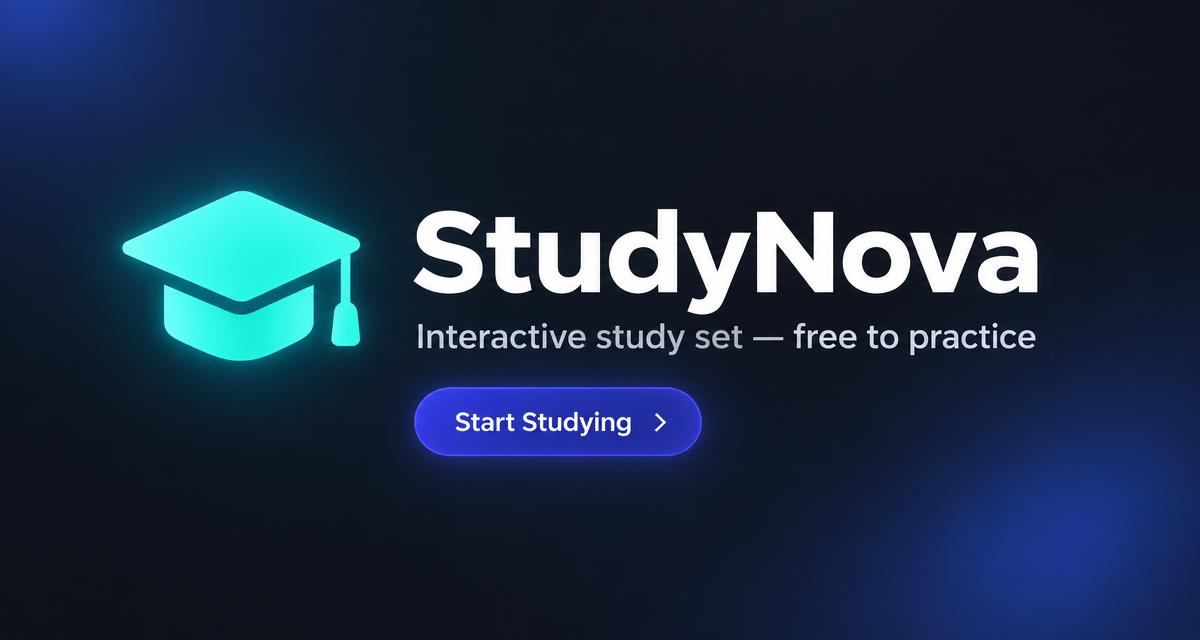
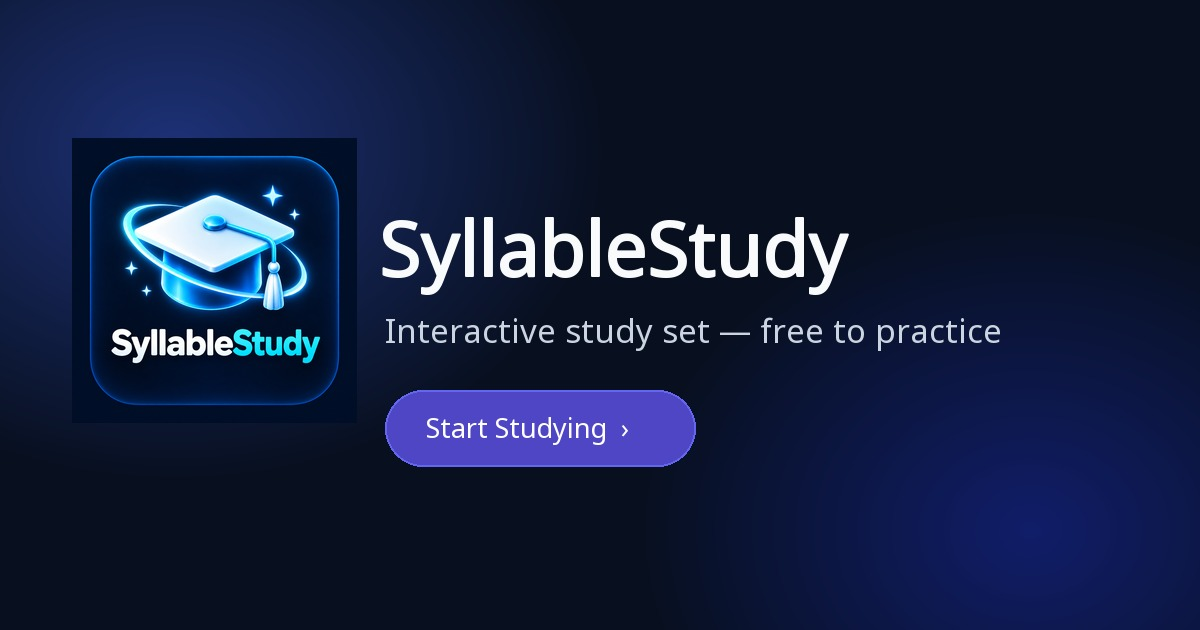
Changes

Changed region(s): [[0.0, 0.0302, 0.8633, 0.7841], [0.7708, 0.6635, 1.0, 1.0], [0.0, 0.0, 0.1233, 0.1508]]

diff --git a/AGENTS.md b/AGENTS.md
@@ -12,3 +12,4 @@
 - Route all student-key AI HTTP requests through `fetchAiWithRetry` in `ai-request.server.ts` so transient failures retry sequentially without switching providers or exposing prompts in logs.
 - School calendar sync (Canvas/Blackboard .ics) stores links in `calendar_feeds` and dedupes events via `calendar_events.source_document = ics:<feedId>:<uid>` — avoids a new column and keeps re-syncs idempotent.
 - Shared links snapshot content into `shared_items` and are read publicly only via the security-definer `get_shared_item(token)` RPC — no anon table access.
+- The visible product brand is SyllableStudy, while existing `studynova.link` URLs, sender addresses, and persisted storage keys stay unchanged so old links and user state continue working.
